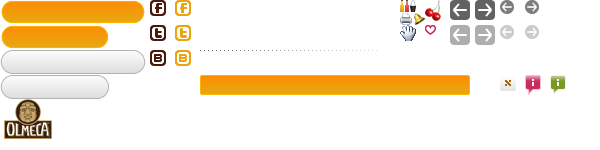
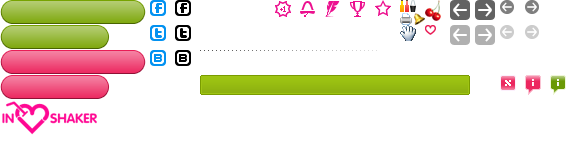
fix old school buttons

diff --git a/htdocs/t/cocktail/cocktail.css b/htdocs/t/cocktail/cocktail.css
@@ -36,6 +36,21 @@
 
 .cocktail-preview .link { display: block; width: 105px; margin: 0 auto; }
 
+/* that great buttons */
+button.rounded { position: relative; margin: 0; padding: 0; border: 0; width: 145px; height: 24px; overflow: hidden; color: #fff; cursor: pointer; background: none; }
+button.rounded b { position: relative; left: 1px; top: 0px; font-size: 11px; line-height: 12px; letter-spacing: 0.1em; font-weight: normal; }
+button.tiny { width: 110px; background-position: 0 -25px; }
+button.strong { background-position: 0 -50px; }
+html.msie-6 button.rounded b,
+html.msie-7 button.rounded b,
+html.msie-8 button.rounded b { font-weight: bold; top: 5px; }
+html.msie-7 button.rounded b,
+html.msie-8 button.rounded b { display: inline-block; letter-spacing: 0.1px; filter: Shadow(Color=#333333,Direction=135,Strength=1); padding-bottom: 1px; }
+html.msie-8 button.rounded b { top: -2px; }
+html.firefox button.rounded b {  top: -2px; }
+html.safari button.rounded b { top: -1px; }
+
+
 .column-main { width: 627px; }
 
 .common-title { position: relative; }

diff --git a/htdocs/t/skin/drinkit/skin.css b/htdocs/t/skin/drinkit/skin.css
@@ -33,8 +33,14 @@ body { background: center top; color: #000; }
 #more .button:hover { background-color: #fc0066; text-shadow: 0 0 5px #fff; }
 
 /* cocktails.css */
+#cocktail-page button.rounded,
 #cocktail-page .square-list .prev,
 #cocktail-page .square-list .next { background-repeat: no-repeat; background-image: url(cocktails.png); }
+#cocktail-page button.rounded b,
+#cocktail-page button.strong b { text-shadow: 1px 1px 1px rgba(0,0,0,0.4); }
+#cocktail-page button.rounded b { color: #fff; }
+#cocktail-page button.strong b { color: #fff; }
+
 
 
 /* footer */
